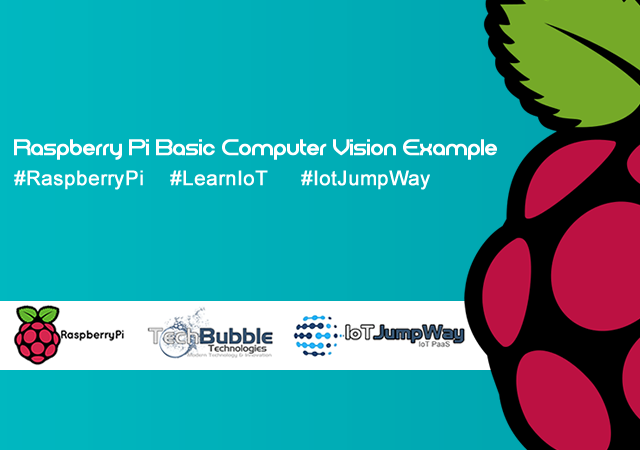
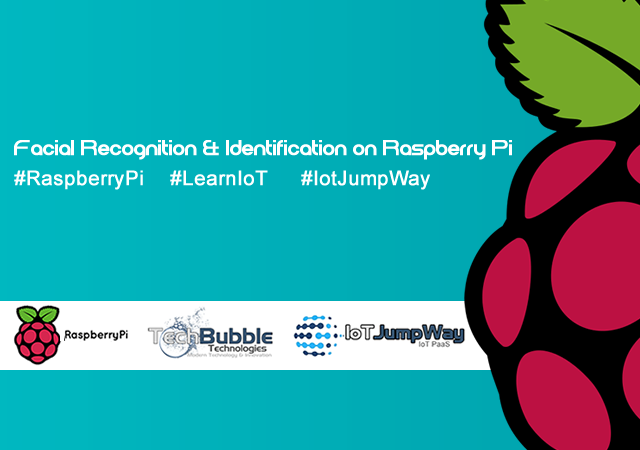
[Computer-Vision/Python/Core] Updated README & Graphics

Changed region(s): [[0.0, 0.3111, 0.8125, 0.3733], [0.0938, 0.7156, 0.2188, 0.7778]]

diff --git a/Computer-Vision/Python/README.md b/Computer-Vision/Python/README.md
@@ -67,11 +67,13 @@ In addition OpenCv needs to be installed, follow the [Installing OpenCV On Your 
 
 ## Connection Credentials & Sensor Settings
 
-- Follow the [TechBubble Technologies IoT JumpWay Developer Program (BETA) Location Device Doc-](https://github.com/TechBubbleTechnologies/IoT-JumpWay-Docs/blob/master/4-Location-Devices.md "TechBubble Technologies IoT JumpWay Developer Program (BETA) Location Device Doc") to set up your device. 
+The next steps will be to setup your device instance in the IoT JumpWay Developer Console.
+
+- Follow the [IoT JumpWay Location Device Doc](https://github.com/TechBubbleTechnologies/IoT-JumpWay-Docs/blob/master/4-Location-Devices.md "IoT JumpWay Location Device Doc") to set up your device. You will need to set up a device that has a CCTV Camera added via the Sensors/Actuators section.
 
 ![IoT JumpWay Raspberry Pi Computer Vision Example Docs](../../images/Computer-Vision/Device-Creation.png)  
 
-- Retrieve your connection credentials and update the config.json file with your new connection credentials and camera setting.
+- Retrieve your connection credentials and update the config.json file with your new connection credentials and camera ID setting (You will need to go into the device page after creating it to get your correct camera ID).
 
 ```
 	"IoTJumpWaySettings": {
@@ -85,8 +87,6 @@ In addition OpenCv needs to be installed, follow the [Installing OpenCV On Your 
 
 ```
 	"IoTJumpWayMQTTSettings": {
-		"host": "https://iot.techbubbletechnologies.com",
-		"port": "8883",
 		"username": "Your MQTT Username",
 		"password": "Your MQTT Password"
 	}
